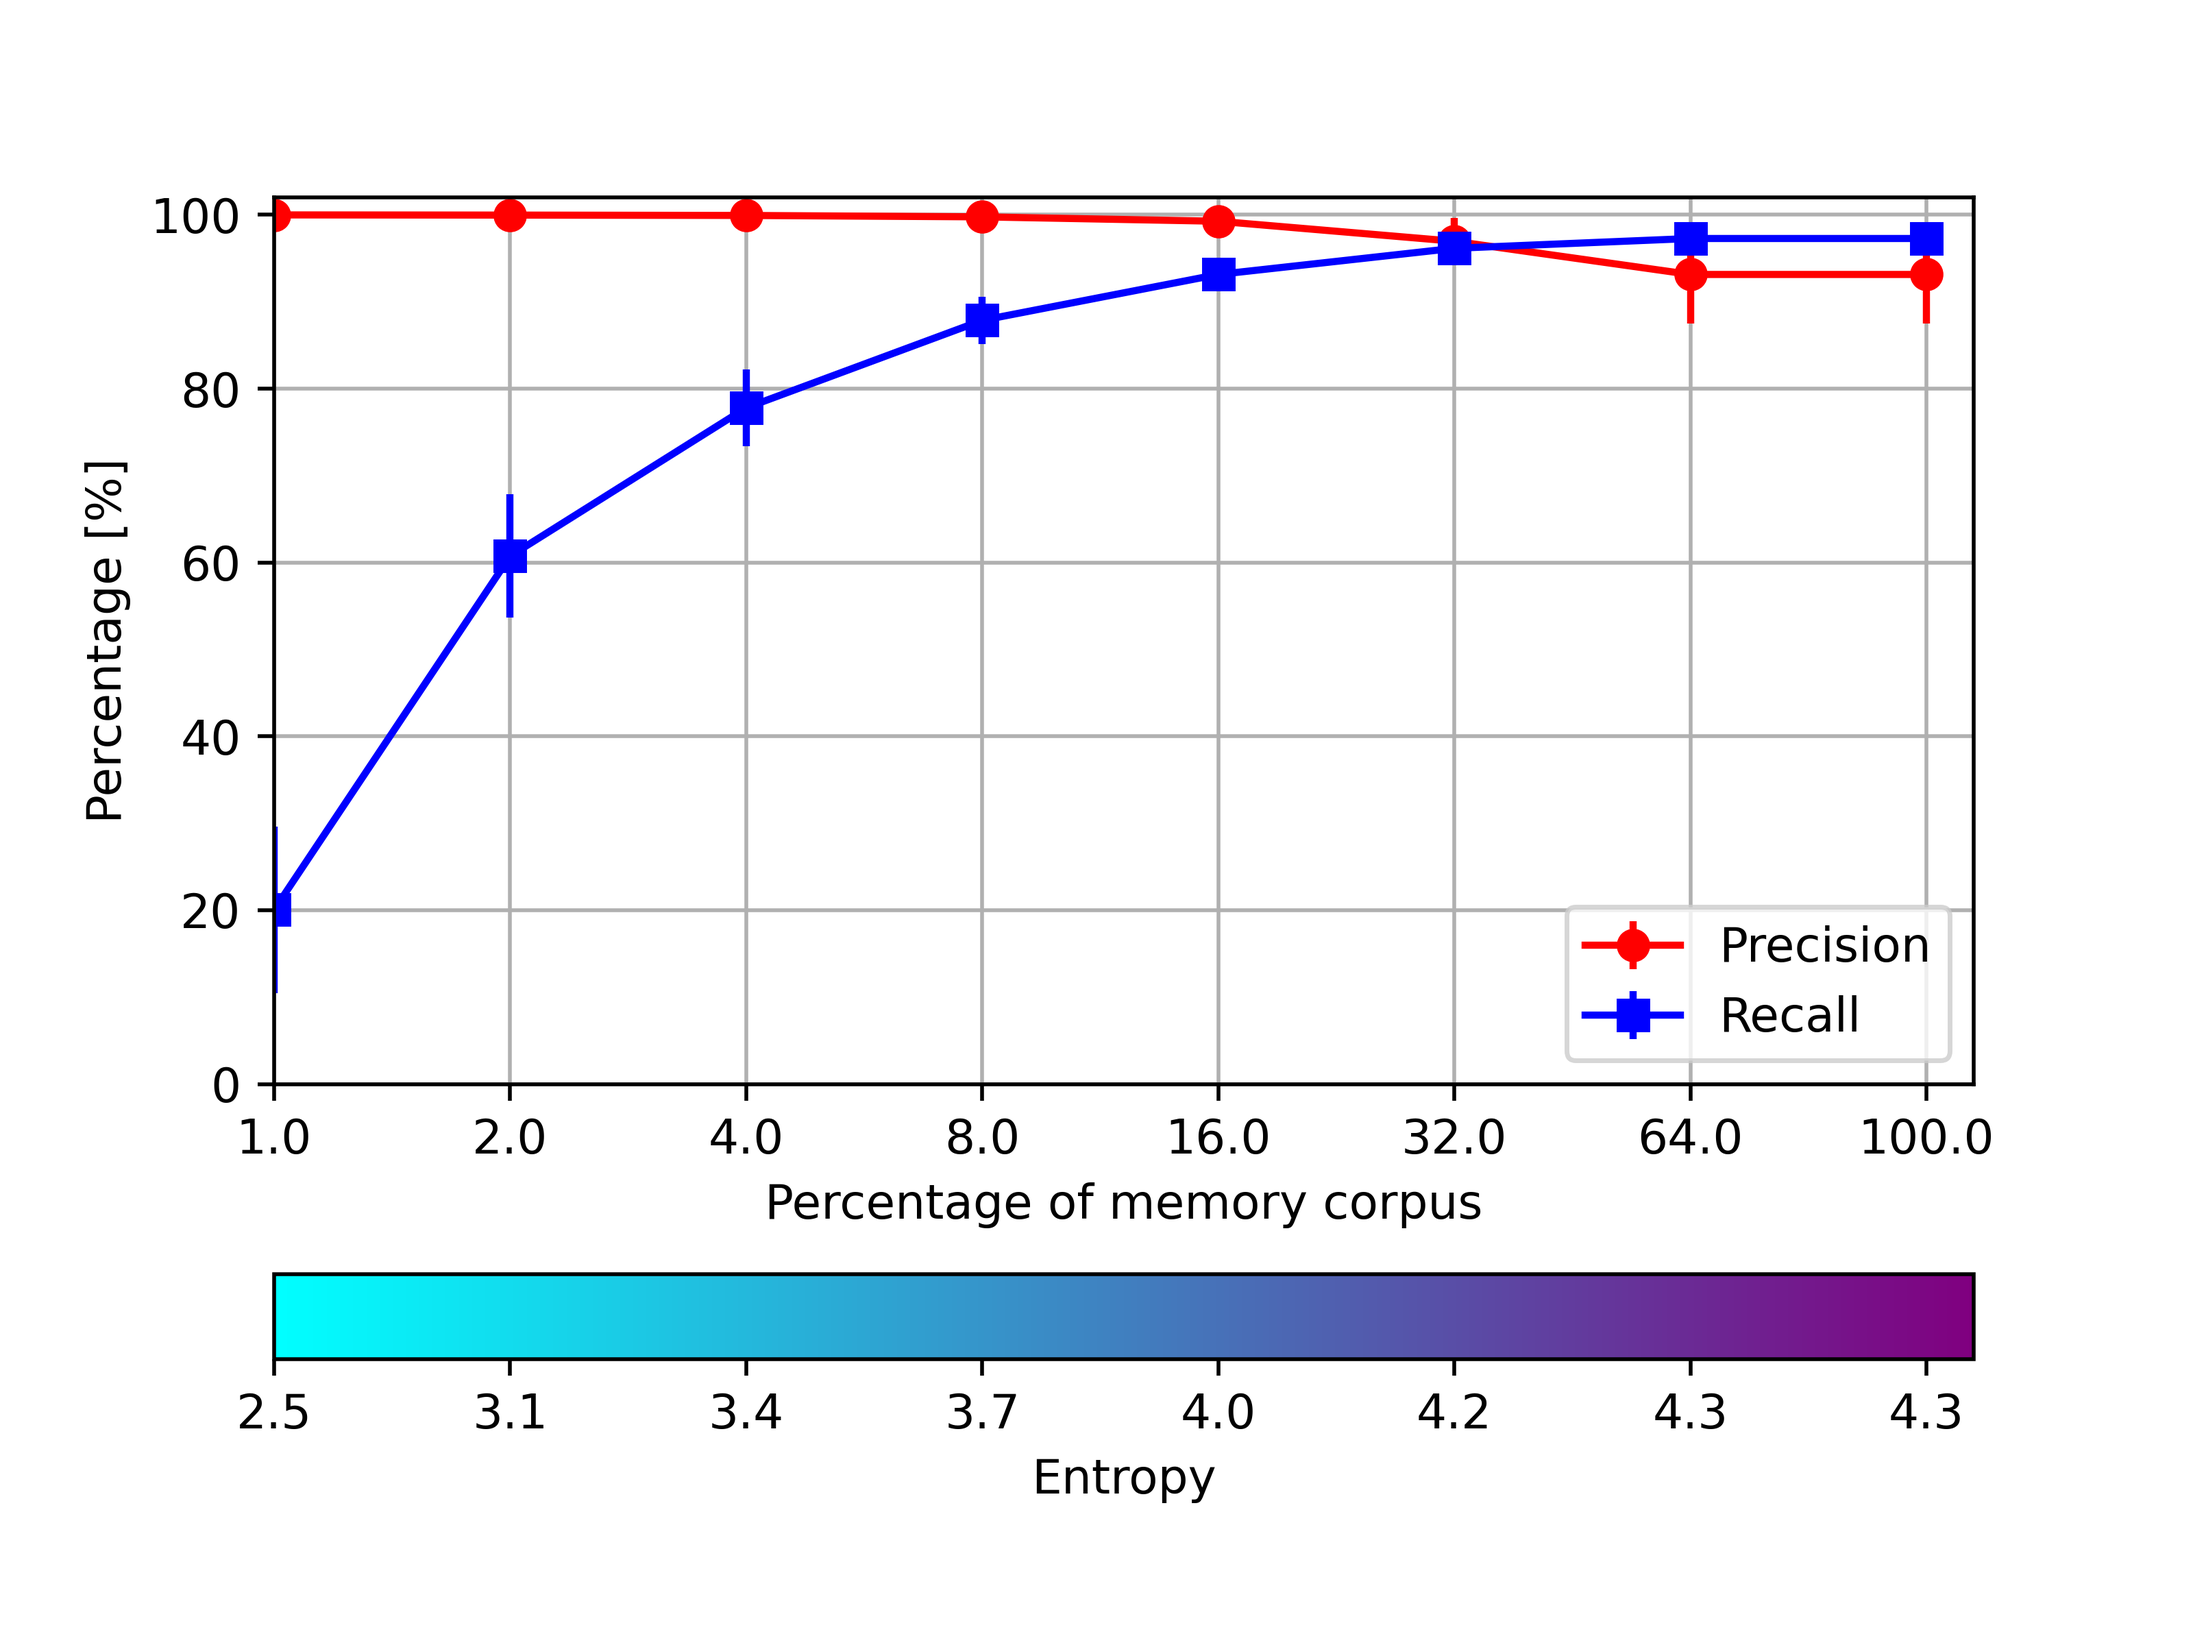
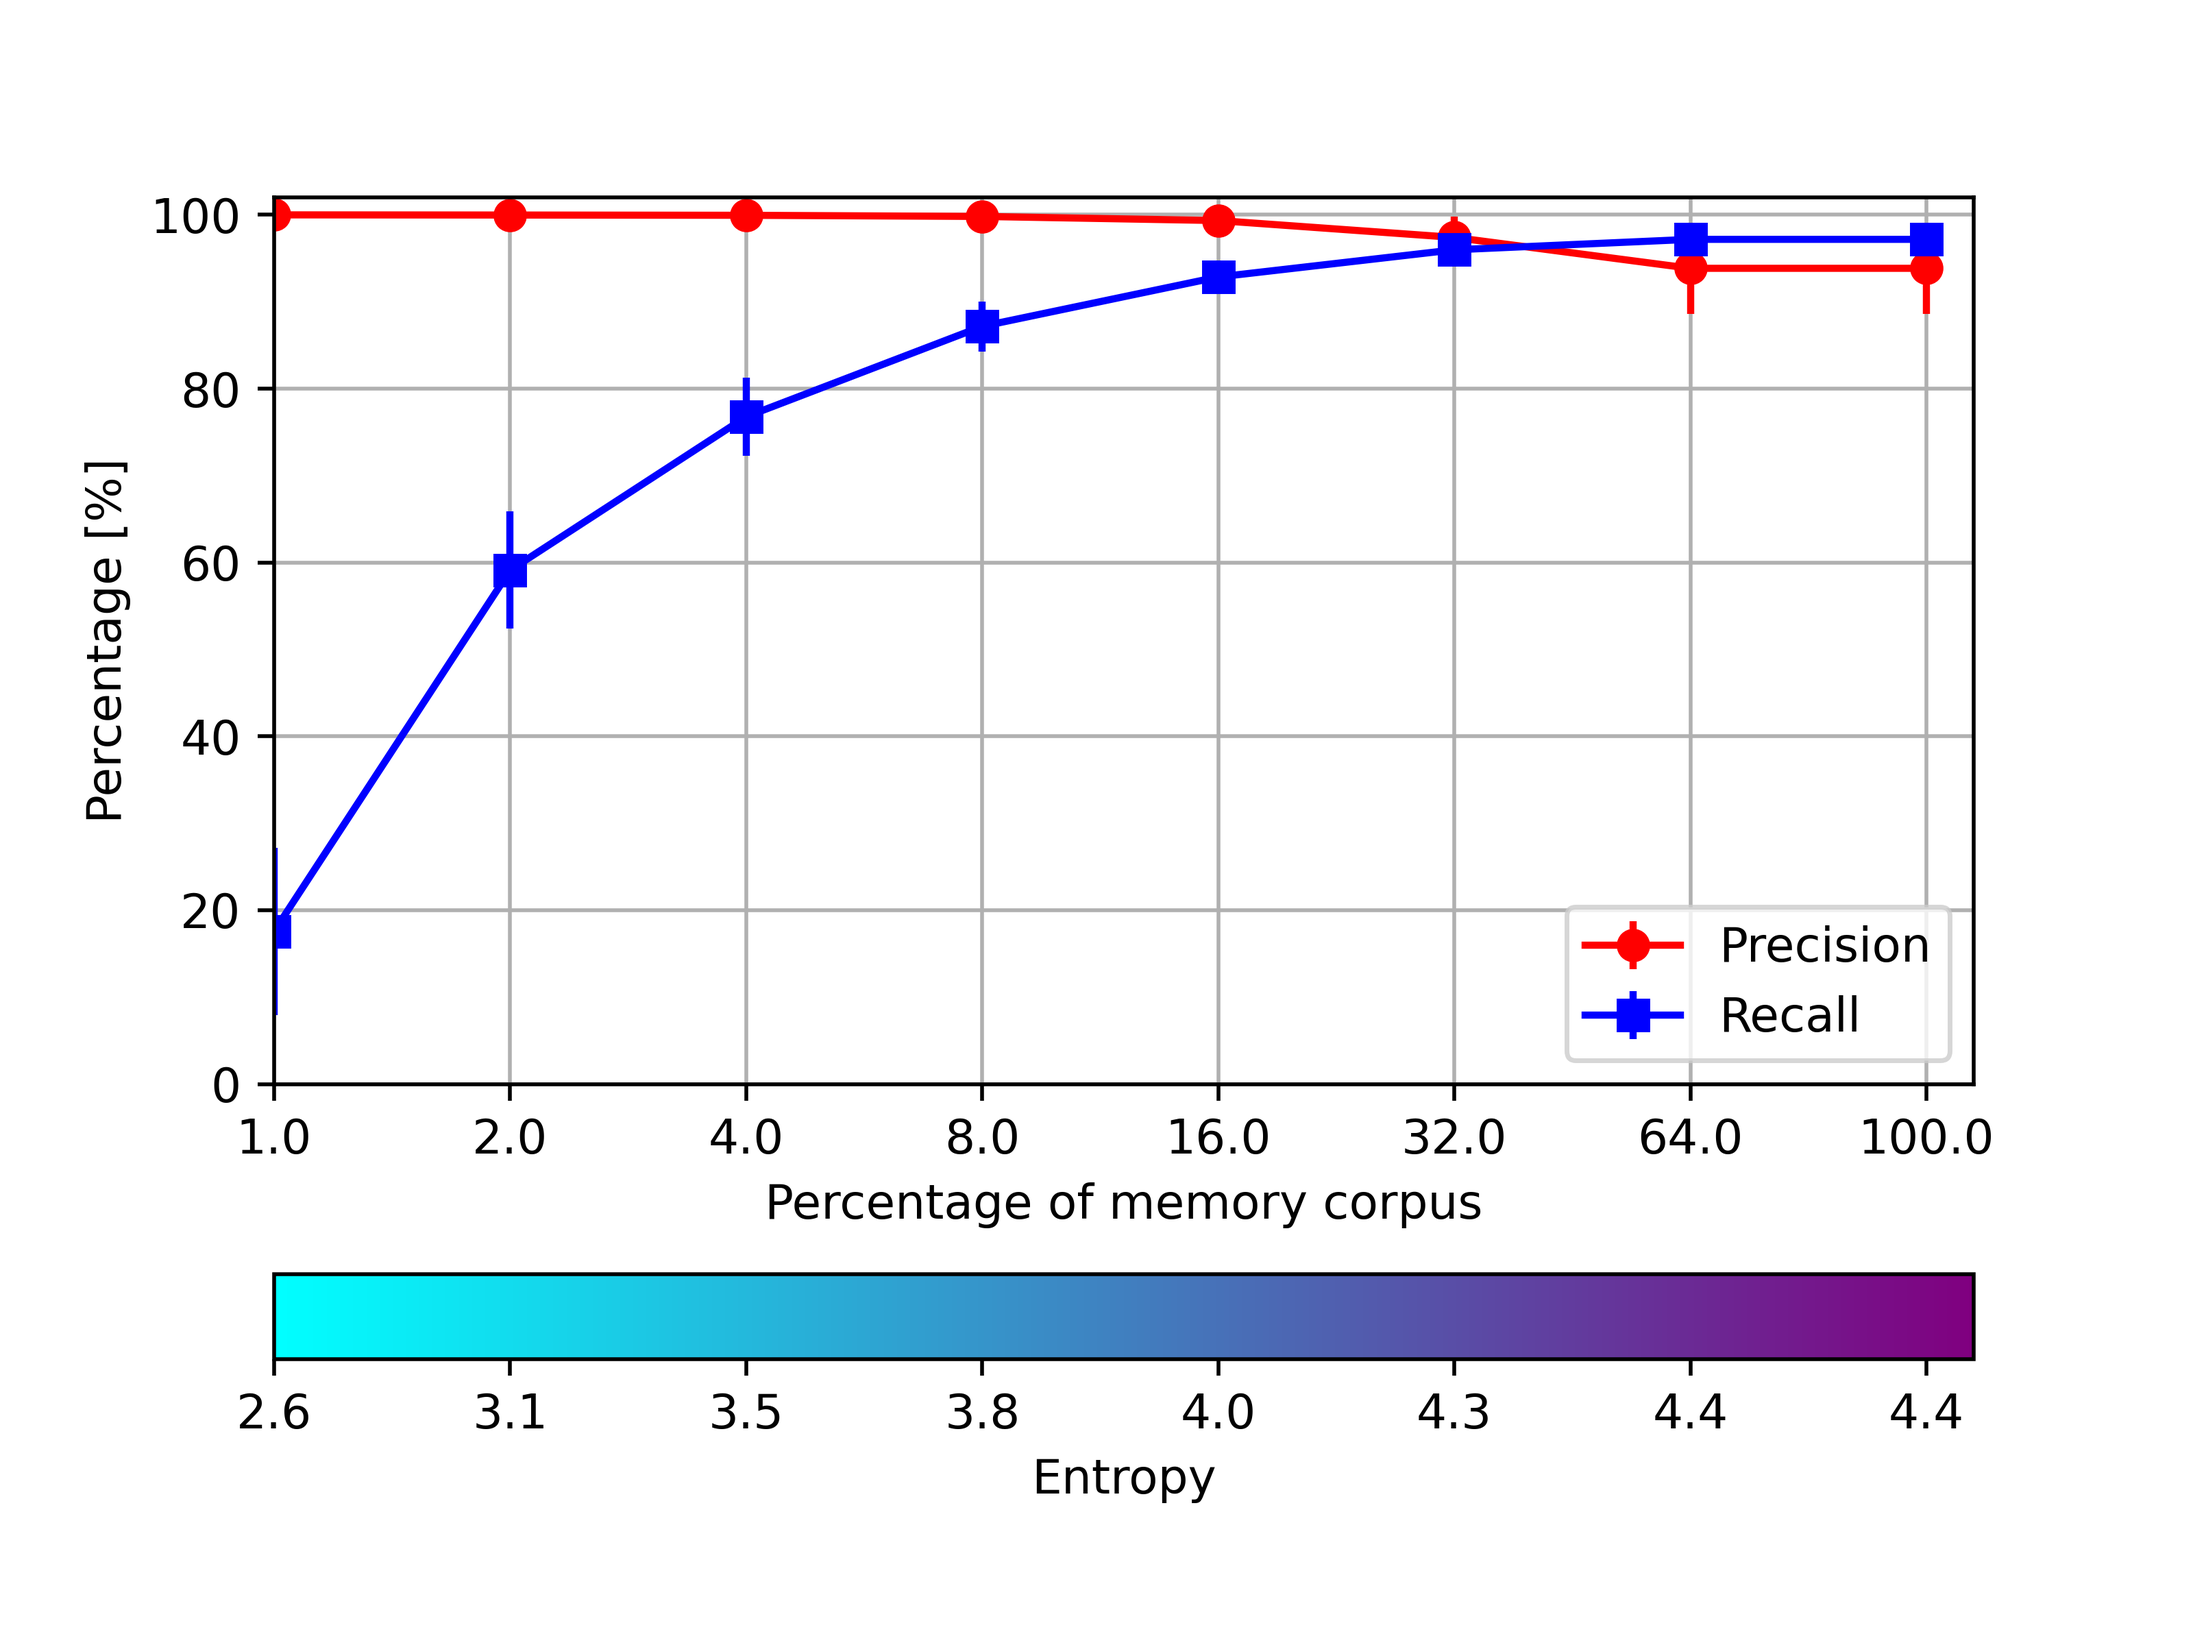
Final results for experiments 2 and 3.

diff --git a/constants.py b/constants.py
@@ -148,7 +148,7 @@ n_behaviours = 7
 
 memory_sizes = [1, 2, 4, 8, 16, 32, 64, 128, 256, 512]
 memory_fills = [1.0, 2.0, 4.0, 8.0, 16.0, 32.0, 64.0, 100.0]
-partial_ideal_memory_size = 20
-full_ideal_memory_size = 60
+partial_ideal_memory_size = 32
+full_ideal_memory_size = 64
 
 
